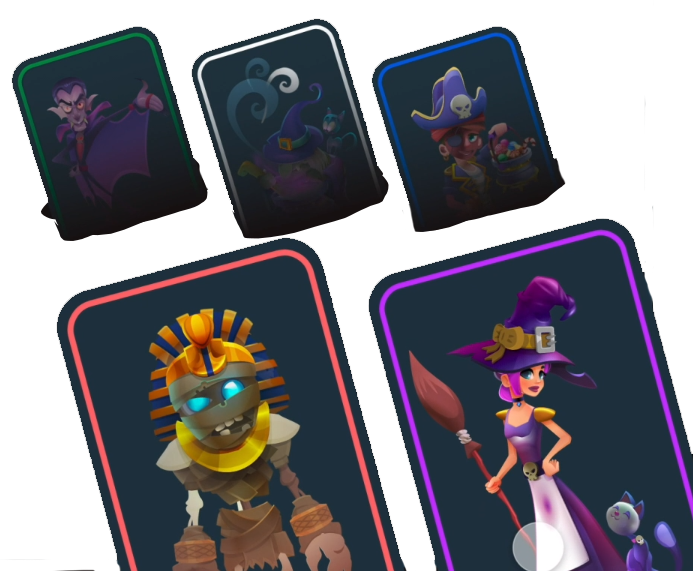
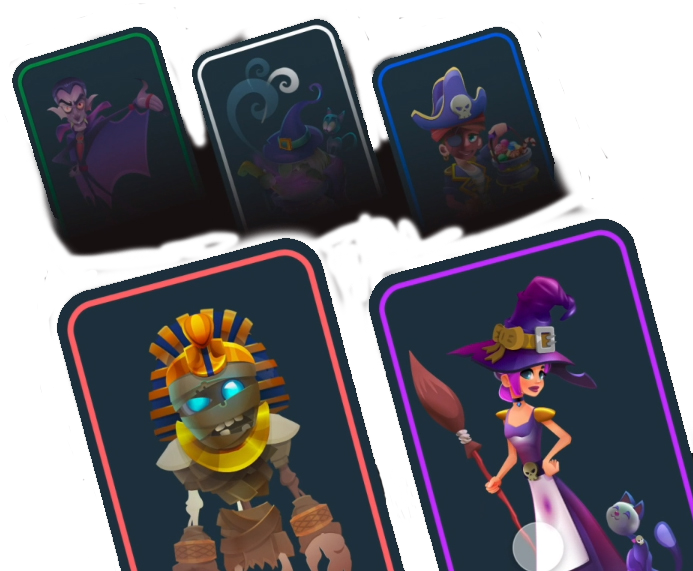
small changes

diff --git a/style.css b/style.css
@@ -1,7 +1,12 @@
 body {
     margin: 0;
 }
-
+a{
+    text-decoration: none;
+}
+a:hover{
+    text-decoration: none;
+}
 .wrapper {
     width: 100%;
     height: 100vh;
@@ -16,7 +21,6 @@ body {
     top: 0;
     right: 0;
     left: 0;
-    /*position: static;*/
     width: 95%;
     height: 84vh;
     border: 1.5vh solid #223744;
@@ -26,36 +30,30 @@ body {
 }
 
 .header {
-    /*width: 90%;*/
-    /*margin: auto;*/
     display: flex;
     justify-content: space-between;
-    /*border: 1px solid white;*/
     padding: 13vh 3vh 0 0;
     background-image: url("img/nav_element.png");
     background-repeat: no-repeat;
     background-position: right;
-    /*position: relative;*/
-    /*z-index: 0;*/
     margin-left: 15%;
 }
 
 .header-logo {
+    width: 50%;
+    z-index: 91;
+}
+.header-logo a{
     font-family: 'Spartan', sans-serif;
     color: #ffe900;
     font-size: 40px;
     text-align: left;
-    width: 50%;
-    z-index: 91;
 }
-
 .header-logo span {
     color: white;
-
 }
 
 .nav {
-
     display: flex;
     justify-content: center;
     width: 50%;
@@ -126,7 +124,7 @@ body {
 .title {
     font-size: 70px;
     color: white;
-    padding: 30% 0 2%;
+    padding: 25% 0 2%;
     opacity: 1;
 }
 
@@ -144,13 +142,10 @@ body {
 .content-card {
     display: none;
     width: 22%;
-    /*text-align: left;*/
     margin-left: 15%;
     z-index: 1000;
     position: absolute;
     top: 30vh;
-    /*bottom: 0;*/
-    /*border: 1px solid red;*/
 }
 
 .card-name {
@@ -195,21 +190,16 @@ body {
     right: 0;
     width: 60%;
     height: 90vh;
-    /*top: 10vh;*/
     z-index: 1000;
     overflow: hidden;
     position: absolute;
-    /*border: 1px solid yellow;*/
 }
 
 .single-img {
-    /*position: absolute;*/
     width: 50%;
     height: 80%;
     margin-left: 10%;
     z-index: 1000;
-
-
 }
 
 .single-img-wrapper button {
@@ -217,14 +207,10 @@ body {
     right: 10vh;
     bottom: 10vh;
     background-color: white;
-    /*width: 120px;*/
     height: 70px;
     padding: 25px 32px;
     border-radius: 35px;
-    /*margin-top: -10%;*/
-    /*margin-right: -23%;*/
     z-index: 1000;
-    /*margin: 30% 0;*/
 }
 
 .single-img-next {
@@ -267,7 +253,6 @@ button:focus {
     border-radius: 50%;
     /*box-sizing: border-box;*/
     font-size: 14px;
-    /*border: 1px solid white;*/
 }
 
 .explore-btn-icon i {

diff --git a/index.html b/index.html
@@ -18,14 +18,14 @@
     <div class="container"></div>
     <div class="header">
         <div class="header-logo">
-            <p>H<span>CARD</span></p>
+            <a href="#">H<span>CARD</span></a>
         </div>
 
         <ul class="nav">
-            <li class="nav-link">Store</li>
-            <li class="nav-link">About</li>
-            <li class="nav-link">Pack</li>
-            <li class="nav-link">Buy</li>
+            <a href="#"><li class="nav-link">Store</li></a>
+            <a href="#"><li class="nav-link">About</li></a>
+            <a href="#"><li class="nav-link">Pack</li></a>
+            <a href="#"><li class="nav-link">Buy</li></a>
         </ul>
     </div>
     <div class="content">
@@ -41,7 +41,7 @@
 
 
     <div class="main-img-wrapper">
-        <img class="main-img" src="img/all_cards.jpg"/>
+        <img class="main-img" src="img/all_cards.png"/>
     </div>
 
     <div class="content-card">

diff --git a/index.js b/index.js
@@ -139,7 +139,7 @@ function toHomePage() {
 
     document.querySelector('.header').style.backgroundImage = 'url("img/nav_element.png")';
 
-    gsap.to(".main-img", {y: 0, opacity: 1, duration: 0.5,});
+    gsap.to(".main-img", {y: 0, opacity: 1, duration: 1,});
     gsap.to(".content", {y: 0, opacity: 1, duration: 1,});
 
     backgroundColor('.wrapper', '#161010');
